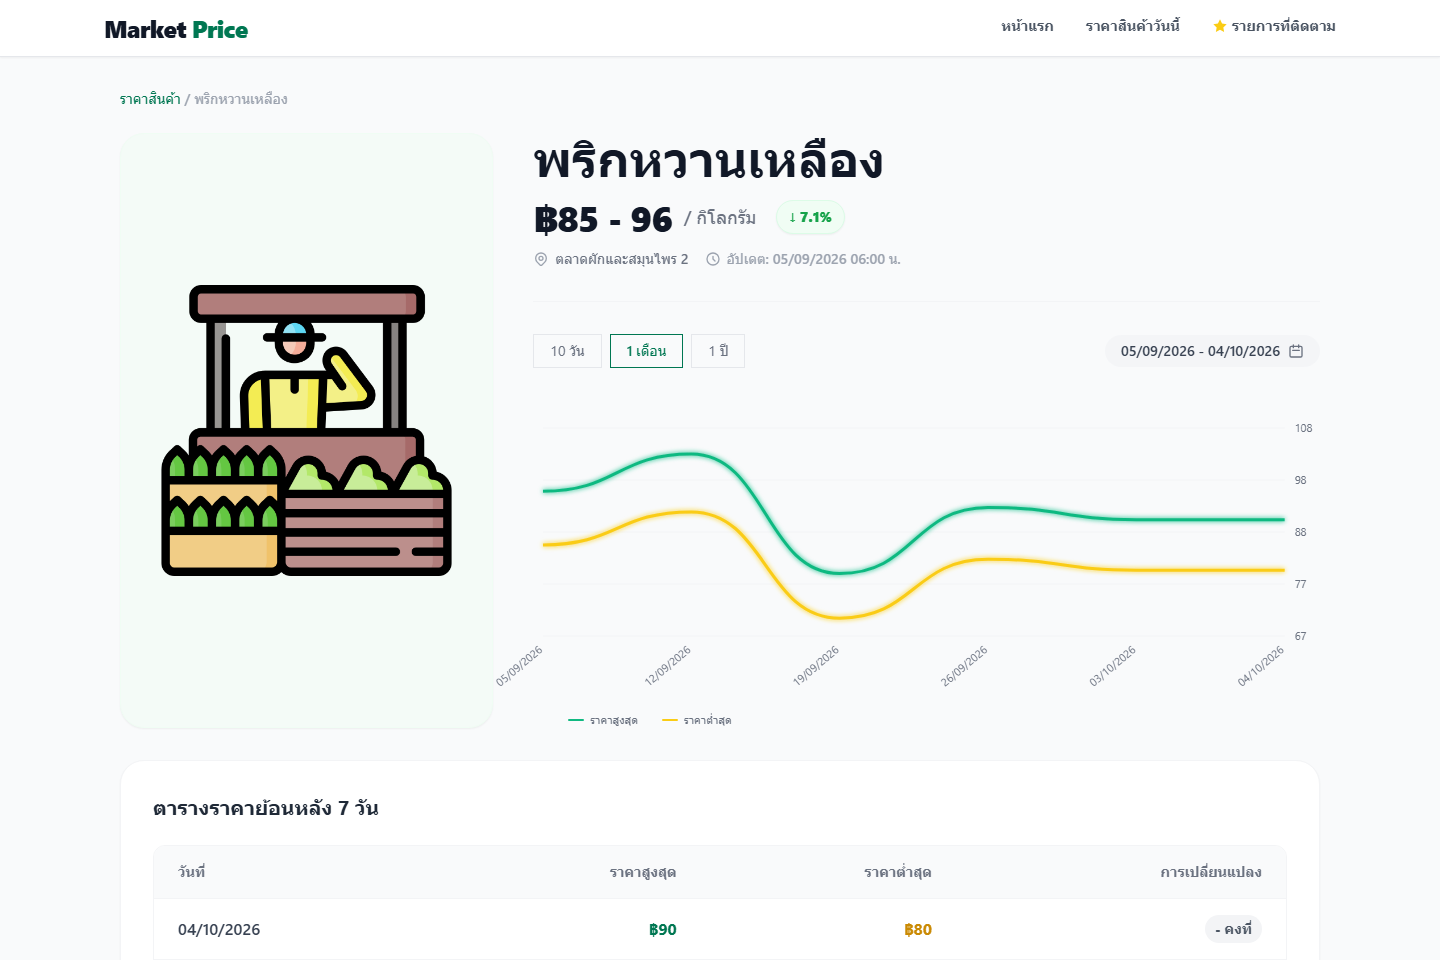
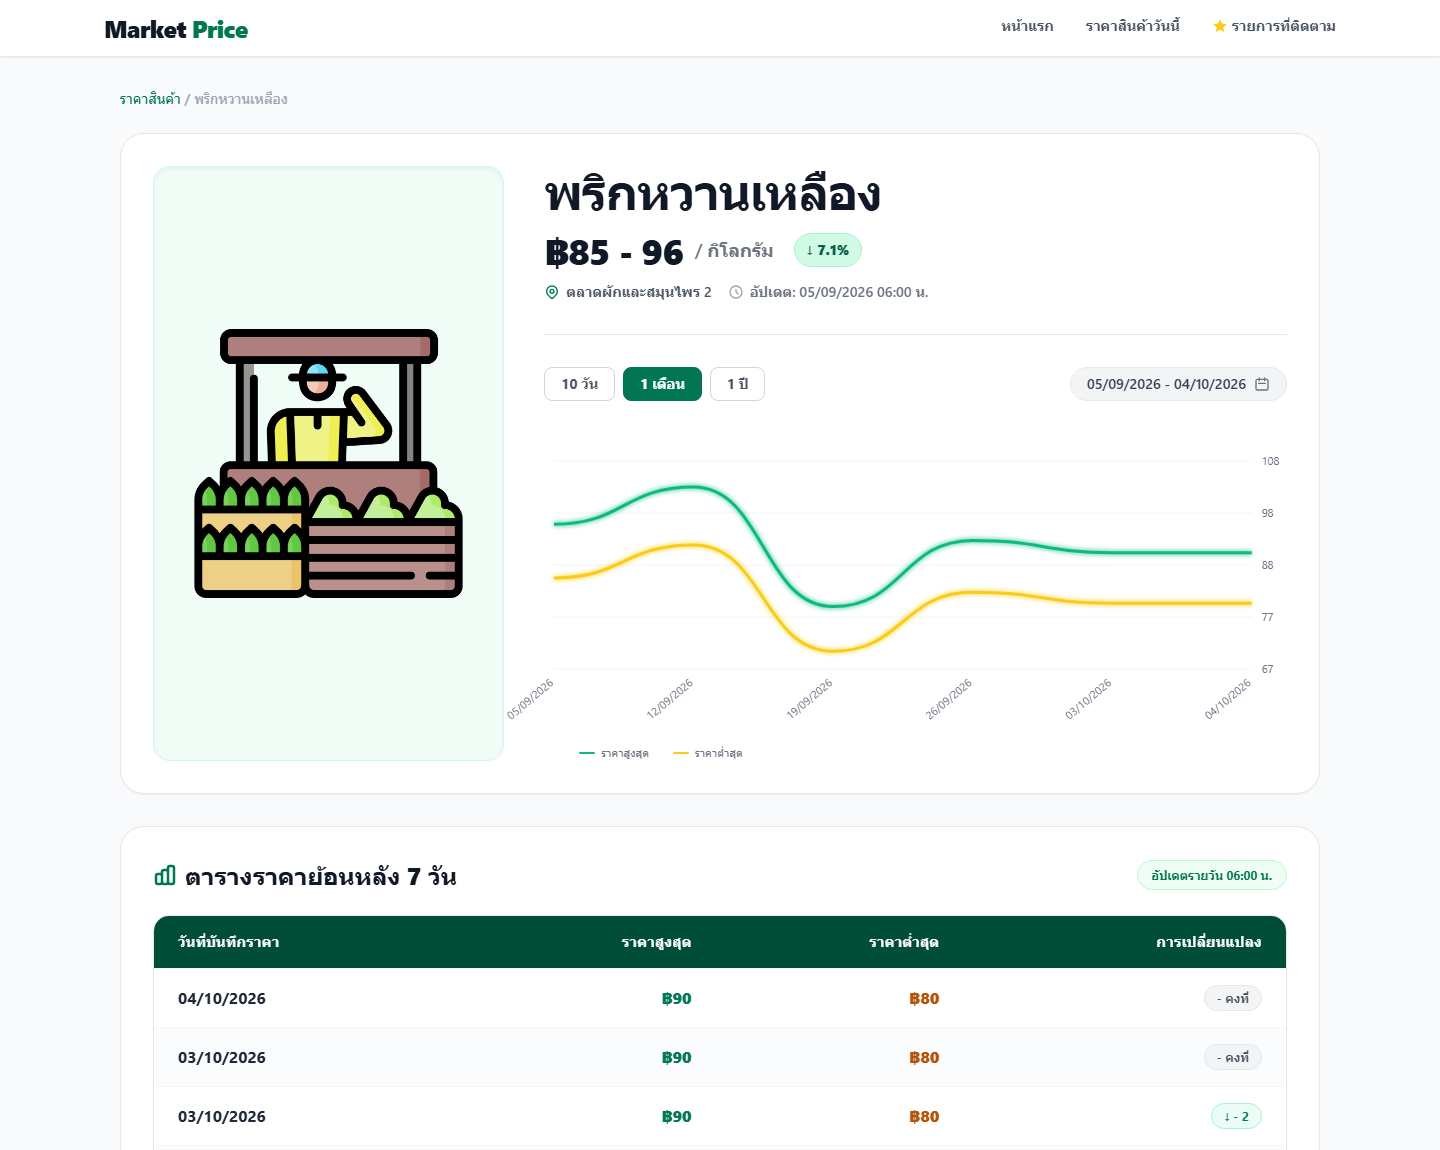
feat: update flower category image and enhance product detail board contrast

diff --git a/components/ProductDetail.vue b/components/ProductDetail.vue
@@ -10,106 +10,119 @@
         ราคาสินค้า <span class="text-gray-400">/ {{ product.name }}</span>
       </p>
 
-      <div class="grid grid-cols-1 lg:grid-cols-12 gap-6 lg:gap-10 items-stretch">
-        
-        <!-- Left: Image (5 cols) -->
-        <div class="lg:col-span-4 flex flex-col">
-          <div class="w-full aspect-square bg-[#F4FBF7] rounded-3xl flex items-center justify-center p-6 lg:p-10 border border-green-50 shadow-sm relative overflow-hidden group h-full">
-            <img 
-              :src="product.image || '/placeholder.png'" 
-              :alt="product.name" 
-              class="w-full h-full object-contain mix-blend-multiply transition-transform duration-500 group-hover:scale-105"
-              @error="(e) => e.target.src = '/placeholder.png'"
-            />
-          </div>
-        </div>
-
-        <!-- Right: Info & Chart (8 cols) -->
-        <div class="lg:col-span-8 flex flex-col">
-          <h1 class="text-3xl md:text-5xl font-black text-gray-900 mb-4">{{ product.name }}</h1>
+      <!-- Section 1: Overview & Chart (Card Container) -->
+      <div class="bg-white rounded-3xl border border-gray-200 shadow-sm p-6 md:p-8">
+        <div class="grid grid-cols-1 lg:grid-cols-12 gap-6 lg:gap-10 items-stretch">
           
-          <div class="flex flex-wrap items-center gap-3 mb-3">
-            <span class="text-3xl md:text-4xl font-black text-gray-900 tabular-nums tracking-tight">
-              ฿{{ formatPrice(product.min_price) }} - {{ formatPrice(product.max_price) }}
-            </span>
-            <span class="text-gray-500 font-medium text-lg">/ {{ product.unit || 'กก.' }}</span>
-            
-            <div 
-              v-if="product.priceChange !== undefined"
-              class="ml-2 px-3 py-1.5 rounded-full text-sm font-black shadow-sm flex items-center gap-1"
-              :class="product.trend === 'down' ? 'bg-green-50 text-green-600 border border-green-100' : (product.trend === 'up' ? 'bg-red-50 text-red-600 border border-red-100' : 'bg-gray-50 text-gray-600 border border-gray-100')"
-            >
-              <span v-if="product.trend === 'up'">↑</span>
-              <span v-else-if="product.trend === 'down'">↓</span>
-              <span v-else>-</span>
-              {{ Math.abs(product.priceChange).toFixed(1) }}%
-            </div>
-          </div>
-
-          <div class="flex flex-wrap items-center gap-4 mb-8 text-sm font-medium">
-            <div class="flex items-center gap-1.5">
-              <svg class="w-4 h-4 text-gray-400" fill="none" stroke="currentColor" viewBox="0 0 24 24"><path stroke-linecap="round" stroke-linejoin="round" stroke-width="2" d="M17.657 16.657L13.414 20.9a1.998 1.998 0 01-2.827 0l-4.244-4.243a8 8 0 1111.314 0z"></path><path stroke-linecap="round" stroke-linejoin="round" stroke-width="2" d="M15 11a3 3 0 11-6 0 3 3 0 016 0z"></path></svg>
-              <span class="text-gray-500">{{ product.market || 'ตลาดผักและสมุนไพร 2' }}</span>
-            </div>
-            <div class="flex items-center gap-1.5 text-gray-400">
-              <svg class="w-4 h-4" fill="none" stroke="currentColor" viewBox="0 0 24 24"><path stroke-linecap="round" stroke-linejoin="round" stroke-width="2" d="M12 8v4l3 3m6-3a9 9 0 11-18 0 9 9 0 0118 0z"></path></svg>
-              <span>อัปเดต: {{ todayDateText }}</span>
-            </div>
-          </div>
-
-          <!-- Chart Section -->
-          <div class="border-t border-gray-100 pt-6 md:pt-8 flex-grow flex flex-col">
-            <div class="flex flex-wrap justify-between items-center mb-10 gap-4">
-              <!-- Period Selectors -->
-              <div class="flex gap-2">
-                <button @click="setPeriod('10d')" :class="['px-4 py-1.5 text-sm transition-all', activePeriod === '10d' ? 'text-market-green border border-market-green font-medium' : 'text-gray-500 border border-gray-200 hover:border-gray-300']">10 วัน</button>
-                <button @click="setPeriod('1m')" :class="['px-4 py-1.5 text-sm transition-all', activePeriod === '1m' ? 'text-market-green border border-market-green font-medium' : 'text-gray-500 border border-gray-200 hover:border-gray-300']">1 เดือน</button>
-                <button @click="setPeriod('1y')" :class="['px-4 py-1.5 text-sm transition-all', activePeriod === '1y' ? 'text-market-green border border-market-green font-medium' : 'text-gray-500 border border-gray-200 hover:border-gray-300']">1 ปี</button>
-              </div>
-
-              <!-- Date Range Pill -->
-              <div class="bg-gray-100/80 text-gray-700 px-4 py-1.5 rounded-full text-sm font-medium flex items-center gap-2">
-                {{ dateRangeText }}
-                <svg class="w-4 h-4 text-gray-500" fill="none" stroke="currentColor" viewBox="0 0 24 24"><path stroke-linecap="round" stroke-linejoin="round" stroke-width="2" d="M8 7V3m8 4V3m-9 8h10M5 21h14a2 2 0 002-2V7a2 2 0 00-2-2H5a2 2 0 00-2 2v12a2 2 0 002 2z"></path></svg>
-              </div>
-            </div>
-
-            <!-- Real price history chart -->
-            <div class="relative w-full flex-grow min-h-[260px]">
-              <ProductChart 
-                :priceHistory="product.price_history || []" 
-                :selectedRange="activePeriod" 
+          <!-- Left: Image (4 cols) -->
+          <div class="lg:col-span-4 flex flex-col">
+            <div class="w-full aspect-square bg-emerald-50/80 rounded-2xl flex items-center justify-center p-6 lg:p-10 border border-emerald-100 relative overflow-hidden group h-full shadow-inner">
+              <img 
+                :src="product.image || '/placeholder.png'" 
+                :alt="product.name" 
+                class="w-full h-full object-contain mix-blend-multiply transition-transform duration-500 group-hover:scale-105"
+                @error="(e) => e.target.src = '/placeholder.png'"
               />
+            </div>
+          </div>
+
+          <!-- Right: Info & Chart (8 cols) -->
+          <div class="lg:col-span-8 flex flex-col">
+            <h1 class="text-3xl md:text-5xl font-black text-gray-900 mb-4 tracking-tight">{{ product.name }}</h1>
+            
+            <div class="flex flex-wrap items-center gap-3 mb-3">
+              <span class="text-3xl md:text-4xl font-black text-gray-900 tabular-nums tracking-tight">
+                ฿{{ formatPrice(product.min_price) }} - {{ formatPrice(product.max_price) }}
+              </span>
+              <span class="text-gray-500 font-semibold text-lg">/ {{ product.unit || 'กก.' }}</span>
+              
+              <div 
+                v-if="product.priceChange !== undefined"
+                class="ml-2 px-3 py-1.5 rounded-full text-sm font-black shadow-xs flex items-center gap-1"
+                :class="product.trend === 'down' ? 'bg-emerald-100 text-emerald-800 border border-emerald-200' : (product.trend === 'up' ? 'bg-rose-100 text-rose-800 border border-rose-200' : 'bg-gray-100 text-gray-700 border border-gray-200')"
+              >
+                <span v-if="product.trend === 'up'">↑</span>
+                <span v-else-if="product.trend === 'down'">↓</span>
+                <span v-else>-</span>
+                {{ Math.abs(product.priceChange).toFixed(1) }}%
+              </div>
+            </div>
+
+            <div class="flex flex-wrap items-center gap-4 mb-8 text-sm font-semibold">
+              <div class="flex items-center gap-1.5 text-gray-600">
+                <svg class="w-4 h-4 text-market-green" fill="none" stroke="currentColor" viewBox="0 0 24 24"><path stroke-linecap="round" stroke-linejoin="round" stroke-width="2" d="M17.657 16.657L13.414 20.9a1.998 1.998 0 01-2.827 0l-4.244-4.243a8 8 0 1111.314 0z"></path><path stroke-linecap="round" stroke-linejoin="round" stroke-width="2" d="M15 11a3 3 0 11-6 0 3 3 0 016 0z"></path></svg>
+                <span>{{ product.market || 'ตลาดผักและสมุนไพร 2' }}</span>
+              </div>
+              <div class="flex items-center gap-1.5 text-gray-500">
+                <svg class="w-4 h-4 text-gray-400" fill="none" stroke="currentColor" viewBox="0 0 24 24"><path stroke-linecap="round" stroke-linejoin="round" stroke-width="2" d="M12 8v4l3 3m6-3a9 9 0 11-18 0 9 9 0 0118 0z"></path></svg>
+                <span>อัปเดต: {{ todayDateText }}</span>
+              </div>
+            </div>
+
+            <!-- Chart Section -->
+            <div class="border-t border-gray-200 pt-6 md:pt-8 flex-grow flex flex-col">
+              <div class="flex flex-wrap justify-between items-center mb-10 gap-4">
+                <!-- Period Selectors (High-contrast solid active buttons) -->
+                <div class="flex gap-2">
+                  <button @click="setPeriod('10d')" :class="['px-4 py-1.5 text-sm transition-all rounded-lg font-bold shadow-xs', activePeriod === '10d' ? 'bg-market-green text-white border border-market-green' : 'text-gray-600 bg-white border border-gray-300 hover:border-market-green hover:text-market-green']">10 วัน</button>
+                  <button @click="setPeriod('1m')" :class="['px-4 py-1.5 text-sm transition-all rounded-lg font-bold shadow-xs', activePeriod === '1m' ? 'bg-market-green text-white border border-market-green' : 'text-gray-600 bg-white border border-gray-300 hover:border-market-green hover:text-market-green']">1 เดือน</button>
+                  <button @click="setPeriod('1y')" :class="['px-4 py-1.5 text-sm transition-all rounded-lg font-bold shadow-xs', activePeriod === '1y' ? 'bg-market-green text-white border border-market-green' : 'text-gray-600 bg-white border border-gray-300 hover:border-market-green hover:text-market-green']">1 ปี</button>
+                </div>
+
+                <!-- Date Range Pill -->
+                <div class="bg-gray-100 text-gray-700 border border-gray-200 px-4 py-1.5 rounded-full text-sm font-semibold flex items-center gap-2">
+                  {{ dateRangeText }}
+                  <svg class="w-4 h-4 text-gray-500" fill="none" stroke="currentColor" viewBox="0 0 24 24"><path stroke-linecap="round" stroke-linejoin="round" stroke-width="2" d="M8 7V3m8 4V3m-9 8h10M5 21h14a2 2 0 002-2V7a2 2 0 00-2-2H5a2 2 0 00-2 2v12a2 2 0 002 2z"></path></svg>
+                </div>
+              </div>
+
+              <!-- Real price history chart -->
+              <div class="relative w-full flex-grow min-h-[260px]">
+                <ProductChart 
+                  :priceHistory="product.price_history || []" 
+                  :selectedRange="activePeriod" 
+                />
+              </div>
             </div>
           </div>
         </div>
       </div>
 
-      <!-- Historical Table Section -->
-      <div v-if="tableData.length > 0" class="mt-8 bg-white rounded-3xl border border-gray-100 p-6 md:p-8 shadow-sm max-w-7xl mx-auto">
-        <h3 class="font-bold text-gray-800 text-xl mb-6">ตารางราคาย้อนหลัง 7 วัน</h3>
+      <!-- Section 2: Historical Table Section (Professional Wholesale Board) -->
+      <div v-if="tableData.length > 0" class="mt-8 bg-white rounded-3xl border border-gray-200 p-6 md:p-8 shadow-sm max-w-7xl mx-auto">
+        <div class="flex items-center justify-between mb-6">
+          <h3 class="font-black text-gray-900 text-2xl flex items-center gap-2">
+            <svg class="w-6 h-6 text-market-green" fill="none" stroke="currentColor" viewBox="0 0 24 24"><path stroke-linecap="round" stroke-linejoin="round" stroke-width="2.5" d="M9 19v-6a2 2 0 00-2-2H5a2 2 0 00-2 2v6a2 2 0 002 2h2a2 2 0 002-2zm0 0V9a2 2 0 012-2h2a2 2 0 012 2v10m-6 0a2 2 0 002 2h2a2 2 0 002-2m0 0V5a2 2 0 012-2h2a2 2 0 012 2v14a2 2 0 01-2 2h-2a2 2 0 01-2-2z"></path></svg>
+            ตารางราคาย้อนหลัง 7 วัน
+          </h3>
+          <span class="text-xs font-bold text-market-green bg-green-50 px-3.5 py-1.5 rounded-full border border-green-200 shadow-xs">
+            อัปเดตรายวัน 06:00 น.
+          </span>
+        </div>
         
-        <!-- Desktop Table -->
-        <div class="hidden md:block overflow-hidden rounded-xl border border-gray-100">
+        <!-- Desktop Table with Dark Green Header -->
+        <div class="hidden md:block overflow-hidden rounded-2xl border border-gray-200 shadow-sm">
           <table class="w-full text-left border-collapse">
-            <thead class="bg-gray-50">
-              <tr class="text-gray-500 text-sm">
-                <th class="py-4 px-6 font-semibold">วันที่</th>
-                <th class="py-4 px-6 font-semibold text-right">ราคาสูงสุด</th>
-                <th class="py-4 px-6 font-semibold text-right">ราคาต่ำสุด</th>
-                <th class="py-4 px-6 font-semibold text-right">การเปลี่ยนแปลง</th>
+            <thead class="bg-[#004e38] text-white">
+              <tr class="text-sm font-bold">
+                <th class="py-4 px-6 tracking-wide">วันที่บันทึกราคา</th>
+                <th class="py-4 px-6 text-right tracking-wide">ราคาสูงสุด</th>
+                <th class="py-4 px-6 text-right tracking-wide">ราคาต่ำสุด</th>
+                <th class="py-4 px-6 text-right tracking-wide">การเปลี่ยนแปลง</th>
               </tr>
             </thead>
             <tbody>
-              <tr v-for="record in tableData" :key="record.dateStr" class="border-t border-gray-100 hover:bg-gray-50/50 transition-colors">
-                <td class="py-4 px-6 font-medium text-gray-700">{{ record.dateStr }}</td>
-                <td class="py-4 px-6 text-right text-market-green font-bold">฿{{ formatPrice(record.max) }}</td>
-                <td class="py-4 px-6 text-right text-yellow-600 font-bold">฿{{ formatPrice(record.min) }}</td>
+              <tr v-for="(record, idx) in tableData" :key="record.dateStr" 
+                  :class="idx % 2 === 0 ? 'bg-white' : 'bg-gray-50/60'"
+                  class="border-t border-gray-100 hover:bg-green-50/40 transition-colors">
+                <td class="py-4 px-6 font-bold text-gray-800">{{ record.dateStr }}</td>
+                <td class="py-4 px-6 text-right text-emerald-700 font-black tabular-nums text-base">฿{{ formatPrice(record.max) }}</td>
+                <td class="py-4 px-6 text-right text-amber-700 font-black tabular-nums text-base">฿{{ formatPrice(record.min) }}</td>
                 <td class="py-4 px-6 text-right">
-                   <div class="inline-flex items-center justify-end gap-1 px-2.5 py-1 rounded-full text-sm font-bold" 
-                        :class="record.diff === 0 ? 'bg-gray-100 text-gray-600' : (record.diff > 0 ? 'bg-red-50 text-red-600' : 'bg-green-50 text-green-600')">
-                     <span v-if="record.diff > 0">↑</span>
-                     <span v-else-if="record.diff < 0">↓</span>
+                   <div class="inline-flex items-center justify-end gap-1 px-3 py-1 rounded-full text-xs font-bold shadow-xs" 
+                        :class="record.diff === 0 ? 'bg-gray-100 text-gray-600 border border-gray-200' : (record.diff > 0 ? 'bg-rose-50 text-rose-700 border border-rose-200' : 'bg-emerald-50 text-emerald-700 border border-emerald-200')">
+                     <span v-if="record.diff > 0">↑ +</span>
+                     <span v-else-if="record.diff < 0">↓ -</span>
                      <span v-else>-</span>
                      {{ record.diff === 0 ? 'คงที่' : formatPrice(Math.abs(record.diff)) }}
                    </div>
@@ -121,35 +134,39 @@
 
         <!-- Mobile Cards -->
         <div class="md:hidden flex flex-col gap-3">
-          <div v-for="record in tableData" :key="'mob-'+record.dateStr" class="border border-gray-100 rounded-xl p-4 bg-gray-50/30">
-            <div class="flex justify-between items-center mb-3 pb-3 border-b border-gray-100">
-              <span class="font-bold text-gray-700">{{ record.dateStr }}</span>
+          <div v-for="record in tableData" :key="'mob-'+record.dateStr" class="border border-gray-200 rounded-2xl p-4 bg-gray-50/60 shadow-xs">
+            <div class="flex justify-between items-center mb-3 pb-3 border-b border-gray-200">
+              <span class="font-black text-gray-800">{{ record.dateStr }}</span>
               <div class="inline-flex items-center gap-1 px-2.5 py-1 rounded-full text-xs font-bold" 
-                   :class="record.diff === 0 ? 'bg-gray-100 text-gray-600' : (record.diff > 0 ? 'bg-red-50 text-red-600' : 'bg-green-50 text-green-600')">
-                <span v-if="record.diff > 0">↑</span>
-                <span v-else-if="record.diff < 0">↓</span>
+                   :class="record.diff === 0 ? 'bg-gray-100 text-gray-600' : (record.diff > 0 ? 'bg-rose-100 text-rose-800' : 'bg-emerald-100 text-emerald-800')">
+                <span v-if="record.diff > 0">↑ +</span>
+                <span v-else-if="record.diff < 0">↓ -</span>
                 <span v-else>-</span>
                 {{ record.diff === 0 ? 'คงที่' : formatPrice(Math.abs(record.diff)) }}
               </div>
             </div>
             <div class="flex justify-between items-center text-sm">
-              <span class="text-gray-500">ราคาสูงสุด</span>
-              <span class="text-market-green font-bold text-base tabular-nums">฿{{ formatPrice(record.max) }}</span>
+              <span class="text-gray-500 font-medium">ราคาสูงสุด</span>
+              <span class="text-emerald-700 font-black text-lg tabular-nums">฿{{ formatPrice(record.max) }}</span>
             </div>
             <div class="flex justify-between items-center text-sm mt-1.5">
-              <span class="text-gray-500">ราคาต่ำสุด</span>
-              <span class="text-yellow-600 font-bold text-base tabular-nums">฿{{ formatPrice(record.min) }}</span>
+              <span class="text-gray-500 font-medium">ราคาต่ำสุด</span>
+              <span class="text-amber-700 font-black text-lg tabular-nums">฿{{ formatPrice(record.min) }}</span>
             </div>
           </div>
         </div>
       </div>
 
-      <!-- Related Products Section -->
-      <div v-if="relatedProducts.length > 0" class="mt-8 mb-12">
+      <!-- Section 3: Related Products Section (High-Contrast Gray Backdrop) -->
+      <div v-if="relatedProducts.length > 0" class="mt-8 mb-12 bg-gray-100/80 rounded-3xl border border-gray-200 p-6 md:p-8 shadow-xs">
         <div class="flex items-center justify-between mb-6">
-          <h3 class="font-bold text-gray-900 text-2xl flex items-center gap-2">
+          <h3 class="font-black text-gray-900 text-xl md:text-2xl flex items-center gap-2">
             สินค้าในหมวด <span class="text-market-green">{{ product.category }}</span>
           </h3>
+          <NuxtLink :to="`/price?query=${product.category}`" class="text-sm font-bold text-market-green hover:underline flex items-center gap-1 bg-white px-3.5 py-1.5 rounded-full border border-gray-200 shadow-xs">
+            ดูทั้งหมดในหมวดนี้
+            <svg class="w-4 h-4" fill="none" stroke="currentColor" viewBox="0 0 24 24"><path stroke-linecap="round" stroke-linejoin="round" stroke-width="2" d="M9 5l7 7-7 7"></path></svg>
+          </NuxtLink>
         </div>
         
         <div class="grid grid-cols-2 md:grid-cols-4 lg:grid-cols-5 gap-4">

diff --git a/pages/index.vue b/pages/index.vue
@@ -76,7 +76,7 @@ const categoryCircles = [
   { name: 'ผักสด', image: 'https://images.unsplash.com/photo-1598170845058-32b9d6a5da37?w=150&q=80' },
   { name: 'ผลไม้', image: 'https://images.unsplash.com/photo-1619566636858-adf3ef46400b?w=150&q=80' },
   { name: 'เนื้อสัตว์และอาหารทะเล', image: 'https://png.pngtree.com/png-clipart/20240923/original/pngtree-fresh-pork-meat-freshness-png-image_16079866.png' },
-  { name: 'ดอกไม้', image: 'https://images.unsplash.com/photo-1615141982883-c7ad0e69fd62?w=150&q=80' },
+  { name: 'ดอกไม้', image: 'https://images.pexels.com/photos/30458590/pexels-photo-30458590.jpeg?cs=srgb&dl=pexels-casnafu-30458590.jpg&fm=jpg' },
   { name: 'ของแห้งและอื่นๆ', image: 'https://images.unsplash.com/photo-1596040033229-a9821ebd058d?w=150&q=80' }
 ];
 

diff --git a/pages/price.vue b/pages/price.vue
@@ -191,7 +191,7 @@ const categoryImages = {
   'ผักสด': 'https://images.unsplash.com/photo-1598170845058-32b9d6a5da37?w=400&q=80',
   'ผลไม้': 'https://images.unsplash.com/photo-1619566636858-adf3ef46400b?w=400&q=80',
   'เนื้อสัตว์และอาหารทะเล': 'https://png.pngtree.com/png-clipart/20240923/original/pngtree-fresh-pork-meat-freshness-png-image_16079866.png',
-  'ดอกไม้': 'https://images.unsplash.com/photo-1615141982883-c7ad0e69fd62?w=400&q=80',
+  'ดอกไม้': 'https://images.pexels.com/photos/30458590/pexels-photo-30458590.jpeg?cs=srgb&dl=pexels-casnafu-30458590.jpg&fm=jpg',
   'ของแห้งและอื่นๆ': 'https://images.unsplash.com/photo-1596040033229-a9821ebd058d?w=400&q=80',
   'default': 'https://images.unsplash.com/photo-1542838132-92c53300491e?w=400&q=80'
 };

diff --git a/components/CategoryFilter.vue b/components/CategoryFilter.vue
@@ -54,10 +54,10 @@ const categories = [
     colorClass: 'bg-[#da291c]' // Red
   },
   { 
-    name: 'อาหารทะเล', // The old card said ตลาดปลา
-    title: 'ตลาดปลา', 
-    image: 'https://images.unsplash.com/photo-1615141982883-c7ad0e69fd62?w=400&q=80',
-    colorClass: 'bg-[#2563eb]' // Blue
+    name: 'ดอกไม้',
+    title: 'ตลาดดอกไม้', 
+    image: 'https://images.pexels.com/photos/30458590/pexels-photo-30458590.jpeg?cs=srgb&dl=pexels-casnafu-30458590.jpg&fm=jpg',
+    colorClass: 'bg-[#e11d48]' // Rose
   },
   { 
     name: 'ของแห้งและอื่นๆ', 
